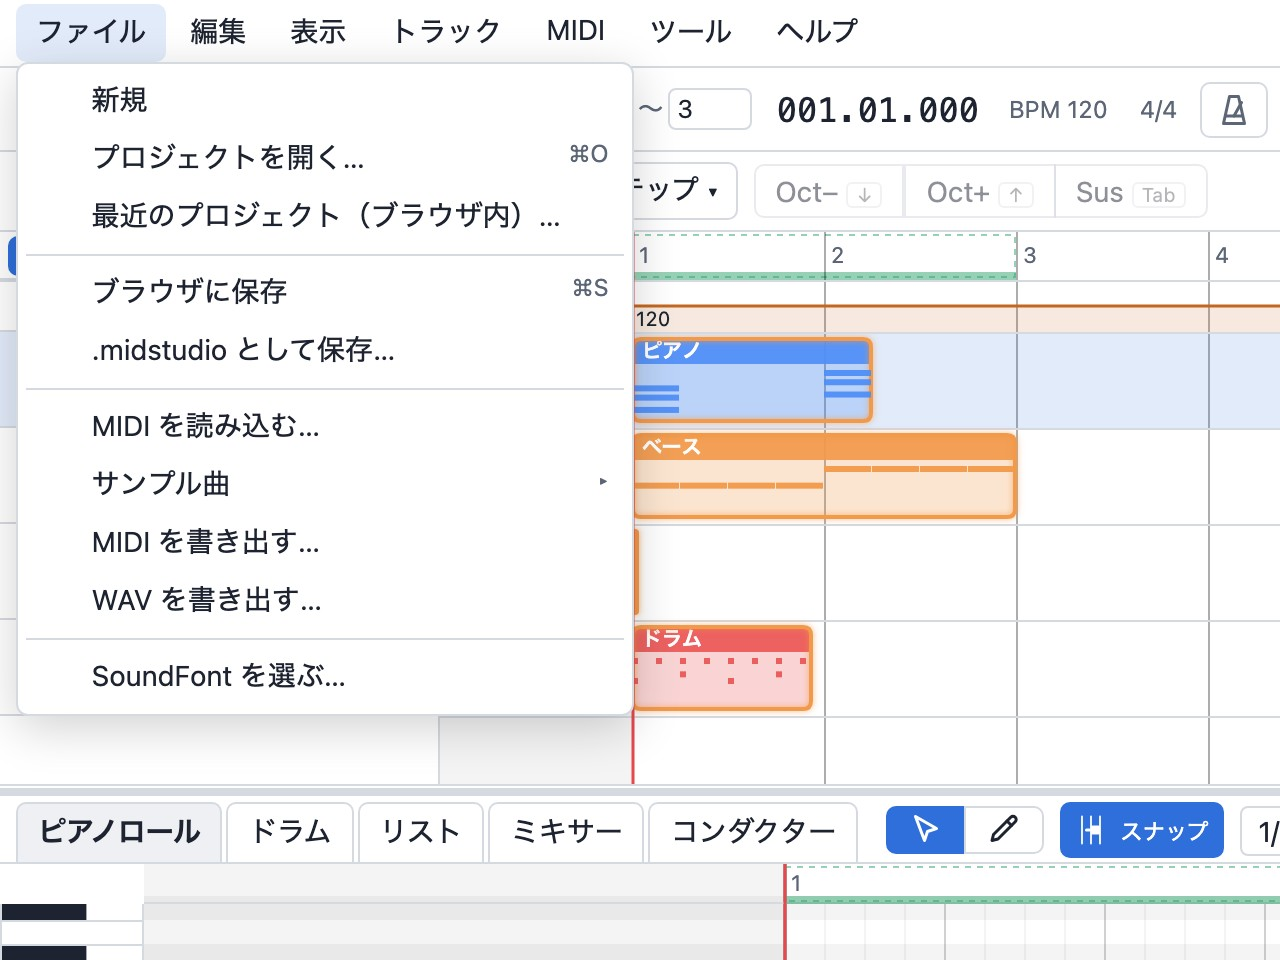
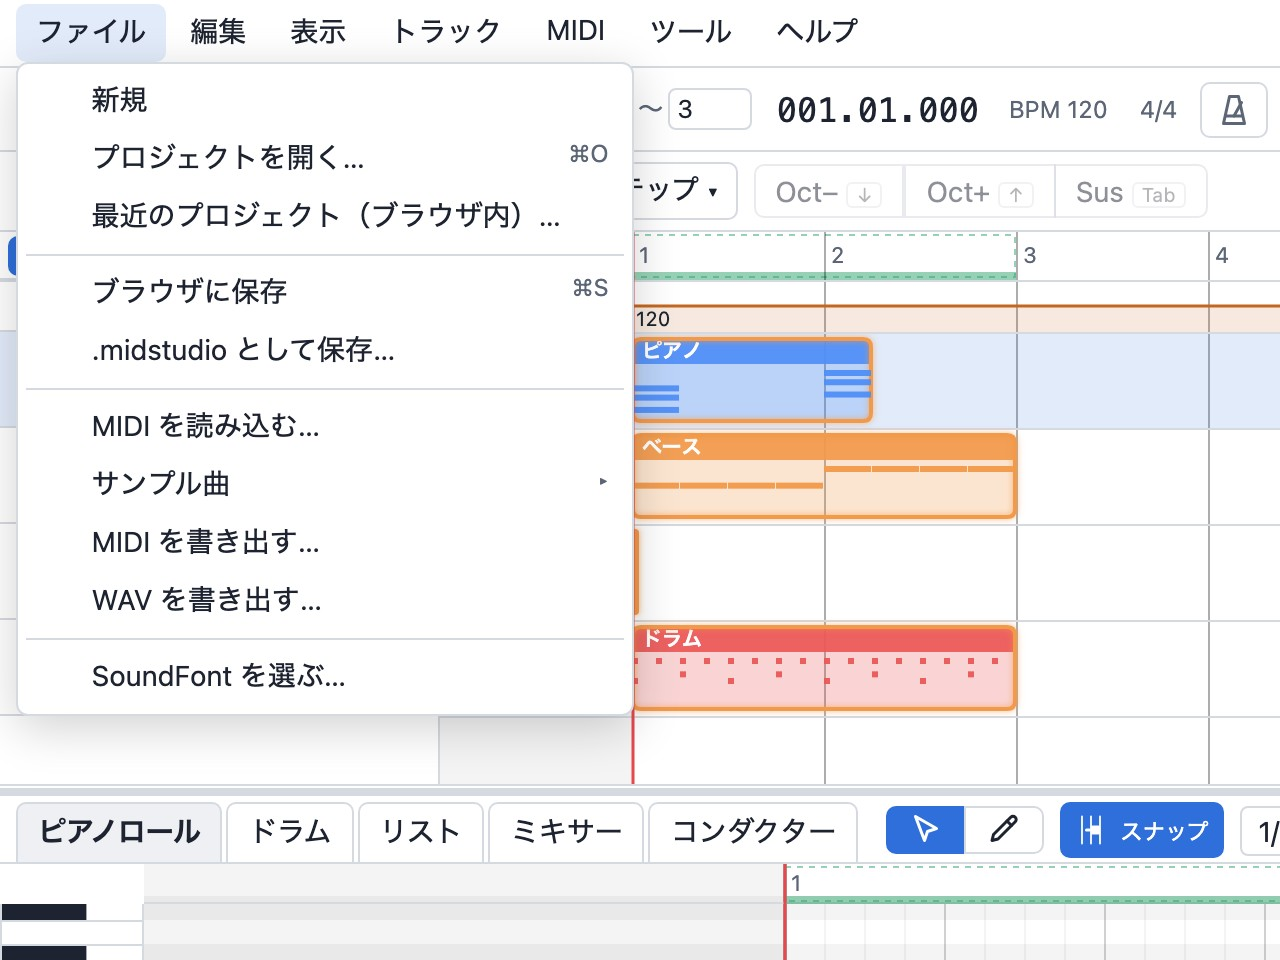
入門の手順をそのまま実行して出来上がりを確かめる E2E を追加、6 章の図はドラムも 2 小節に
tutorial.spec.ts が 1〜3 章と 6 章をマウスとキーで実行し、C と F が交互の 8 小節になることを確かめる。
図の元データでドラムが 1 小節しかなく、文章（3 章でドラムも 2 小節に複製）と食い違っていたのを直した。

Changed region(s): [[0.625, 0.625, 0.8125, 0.75]]

diff --git a/tests/e2e/tutorial.spec.ts b/tests/e2e/tutorial.spec.ts
@@ -1,0 +1,117 @@
+// ADR-063: following the beginner's guide step by step (chapters 1–3 and 6) with the mouse and the
+// keys it names yields the eight-bar song the guide describes. Guards the text against the app.
+import { expect, test, type Page } from '@playwright/test';
+import { exportedSmf, rollPoint } from './helpers';
+
+const Q = 480;
+const mod = process.platform === 'darwin' ? 'Meta' : 'Control';
+const header = (page: Page, name: string) => page.getByTestId('track-header').filter({ hasText: name }).first();
+const grid = (page: Page) => page.getByRole('combobox', { name: 'グリッド' });
+
+async function showPitch(page: Page, pitch: number) {
+  // scroll the roll so the row is in view; after a track switch the roll first settles its own scroll
+  await page.waitForTimeout(150);
+  await page.locator('.roll-scroll').evaluate((el, p) => (el.scrollTop = Math.max(0, (127 - p) * 12 - 200)), pitch);
+  await page.waitForTimeout(100);
+}
+async function draw(page: Page, tick: number, pitch: number) {
+  const p = await rollPoint(page, tick, pitch);
+  await page.mouse.click(p.x, p.y);
+}
+async function drumHit(page: Page, label: RegExp, tick: number) {
+  const g = (await page.getByTestId('drum-grid').boundingBox())!;
+  const lane = page.getByTestId('drum-lane').filter({ hasText: label }).first();
+  const b = (await lane.boundingBox())!;
+  await page.mouse.click(g.x + 320 + (tick * 80) / Q + 2, b.y + b.height / 2);
+}
+/** ⌘A → ⌘D (→ ↑ × n) in the editor of the selected track, as chapter 3 says */
+async function duplicateBar(page: Page, up = 0) {
+  await page.keyboard.press(`${mod}+a`);
+  await page.keyboard.press(`${mod}+d`);
+  for (let i = 0; i < up; i++) await page.keyboard.press('ArrowUp');
+}
+
+test('ADR-063: the beginner\'s guide, followed literally, produces the eight-bar C → F song', async ({ page }) => {
+  await page.goto('/');
+  // 1. 最初の音を置く: grid 1/4, draw tool, four C4 quarter notes in bar 1
+  await header(page, 'ピアノ').click();
+  await page.getByRole('tab', { name: 'ピアノロール' }).click();
+  await grid(page).selectOption('4:straight');
+  await page.getByTestId('tool-draw').click();
+  for (let beat = 0; beat < 4; beat++) await draw(page, beat * Q, 60);
+  // 2. リズムを足す: grid 1/8, kick 1・3, snare 2・4, hat on every 8th; loop on
+  await header(page, 'ドラム').click();
+  await page.getByRole('tab', { name: 'ドラム' }).click();
+  await grid(page).selectOption('8:straight');
+  for (const t of [0, 2 * Q]) await drumHit(page, /^36 Bass Drum 1/, t);
+  for (const t of [Q, 3 * Q]) await drumHit(page, /^38 Acoustic Snare/, t);
+  for (let i = 0; i < 8; i++) await drumHit(page, /^42 Closed Hi-Hat/, (i * Q) / 2);
+  await page.keyboard.press('l');
+  // 3. ベースとコード
+  await header(page, 'ベース').click();
+  await page.getByRole('tab', { name: 'ピアノロール' }).click();
+  await grid(page).selectOption('4:straight');
+  await showPitch(page, 36);
+  for (let beat = 0; beat < 4; beat++) await draw(page, beat * Q, 36);
+  await header(page, 'ピアノ').click();
+  await showPitch(page, 64);
+  for (let beat = 0; beat < 4; beat++) {
+    await draw(page, beat * Q, 64);
+    await draw(page, beat * Q, 67);
+  }
+  // bar 2: click the roll (select tool), ⌘A, ⌘D, ↑ × 5
+  await page.getByTestId('tool-select').click();
+  const empty = await rollPoint(page, 6 * Q, 80);
+  await page.mouse.click(empty.x, empty.y);
+  await duplicateBar(page, 5);
+  await header(page, 'ベース').click();
+  await showPitch(page, 36);
+  const emptyB = await rollPoint(page, 6 * Q, 40);
+  await page.mouse.click(emptyB.x, emptyB.y);
+  await duplicateBar(page, 5);
+  await header(page, 'ドラム').click();
+  await page.getByRole('tab', { name: 'ドラム' }).click();
+  await duplicateBar(page);
+  // 6. 曲の形にする: rubber band from below the drums, ⌘D three times
+  await page.getByTestId('arr-tool-select').click();
+  const arr = (await page.getByTestId('arrangement-canvas').boundingBox())!;
+  await page.mouse.move(arr.x + 96 * 3 + 20, arr.y + arr.height - 6);
+  await page.mouse.down();
+  await page.mouse.move(arr.x + 96 - 6, arr.y + 50 + 4, { steps: 6 });
+  await page.mouse.up();
+  for (let i = 0; i < 3; i++) await page.keyboard.press(`${mod}+d`);
+
+  // --- the result, per track: [tick, pitch, length, velocity]
+  const smf = await exportedSmf(page);
+  const notesOf = (i: number) => {
+    const evs = smf.tracks[i].events.filter((e) => e.kind === 'channel');
+    const open = new Map<number, [number, number]>();
+    const out: number[][] = [];
+    for (const e of evs) {
+      if (e.kind !== 'channel') continue;
+      const type = e.status & 0xf0;
+      if (type === 0x90 && e.data[1] > 0) open.set(e.data[0], [e.tick, e.data[1]]);
+      else if (type === 0x80 || (type === 0x90 && e.data[1] === 0)) {
+        const o = open.get(e.data[0]);
+        if (o) out.push([o[0], e.data[0], e.tick - o[0], o[1]]);
+        open.delete(e.data[0]);
+      }
+    }
+    return out.sort((a, b) => a[0] - b[0] || a[1] - b[1]);
+  };
+  const piano: number[][] = [], bass: number[][] = [], drums: number[][] = [];
+  for (let bar = 0; bar < 8; bar++) {
+    const t0 = bar * 4 * Q, isC = bar % 2 === 0;
+    for (let beat = 0; beat < 4; beat++) {
+      for (const p of isC ? [60, 64, 67] : [65, 69, 72]) piano.push([t0 + beat * Q, p, Q, 100]);
+      bass.push([t0 + beat * Q, isC ? 36 : 41, Q, 100]);
+    }
+    drums.push([t0, 36, Q / 2, 110], [t0 + 2 * Q, 36, Q / 2, 110], [t0 + Q, 38, Q / 2, 110], [t0 + 3 * Q, 38, Q / 2, 110]);
+    for (let i = 0; i < 8; i++) drums.push([t0 + (i * Q) / 2, 42, Q / 2, 85]);
+  }
+  const sortKey = (a: number[], b: number[]) => a[0] - b[0] || a[1] - b[1];
+  expect(notesOf(1)).toEqual(piano.sort(sortKey));
+  expect(notesOf(2)).toEqual(bass.sort(sortKey));
+  expect(notesOf(3)).toEqual([]); // guitar: nothing placed
+  expect(notesOf(4)).toEqual(drums.sort(sortKey));
+});

diff --git a/scripts/shots/tutorial.spec.ts b/scripts/shots/tutorial.spec.ts
@@ -101,7 +101,7 @@ for (const lang of ['ja', 'en'] as Lang[]) {
         song(lang, {
           piano: [[0, 60, Q], [0, 64, Q], [0, 67, Q], [Q * 4, 65, Q], [Q * 4, 69, Q], [Q * 4, 72, Q]],
           bass: [[0, 36, Q], [Q, 36, Q], [Q * 2, 36, Q], [Q * 3, 36, Q], [Q * 4, 41, Q], [Q * 5, 41, Q], [Q * 6, 41, Q], [Q * 7, 41, Q]],
-          drums: [[0, 36, Q / 2, 110], [Q, 38, Q / 2], [Q * 2, 36, Q / 2, 110], [Q * 3, 38, Q / 2], ...Array.from({ length: 8 }, (_, i) => [i * (Q / 2), 42, Q / 4, 80])],
+          drums: [0, 1].flatMap((bar) => [[bar * 4 * Q, 36, Q / 2, 110], [bar * 4 * Q + Q, 38, Q / 2, 110], [bar * 4 * Q + Q * 2, 36, Q / 2, 110], [bar * 4 * Q + Q * 3, 38, Q / 2, 110], ...Array.from({ length: 8 }, (_, i) => [bar * 4 * Q + i * (Q / 2), 42, Q / 2, 85])]),
         }),
       );
       await trackHeader(page, piano).click();
@@ -191,7 +191,7 @@ for (const lang of ['ja', 'en'] as Lang[]) {
         song(lang, {
           piano: [[0, 60, Q], [0, 64, Q], [0, 67, Q], [Q * 4, 65, Q], [Q * 4, 69, Q], [Q * 4, 72, Q]],
           bass: [[0, 36, Q], [Q, 36, Q], [Q * 2, 36, Q], [Q * 3, 36, Q], [Q * 4, 41, Q], [Q * 5, 41, Q], [Q * 6, 41, Q], [Q * 7, 41, Q]],
-          drums: [[0, 36, Q / 2, 110], [Q, 38, Q / 2], [Q * 2, 36, Q / 2, 110], [Q * 3, 38, Q / 2], ...Array.from({ length: 8 }, (_, i) => [i * (Q / 2), 42, Q / 4, 80])],
+          drums: [0, 1].flatMap((bar) => [[bar * 4 * Q, 36, Q / 2, 110], [bar * 4 * Q + Q, 38, Q / 2, 110], [bar * 4 * Q + Q * 2, 36, Q / 2, 110], [bar * 4 * Q + Q * 3, 38, Q / 2, 110], ...Array.from({ length: 8 }, (_, i) => [bar * 4 * Q + i * (Q / 2), 42, Q / 2, 85])]),
         }),
       );
       await page.keyboard.press('Escape');
